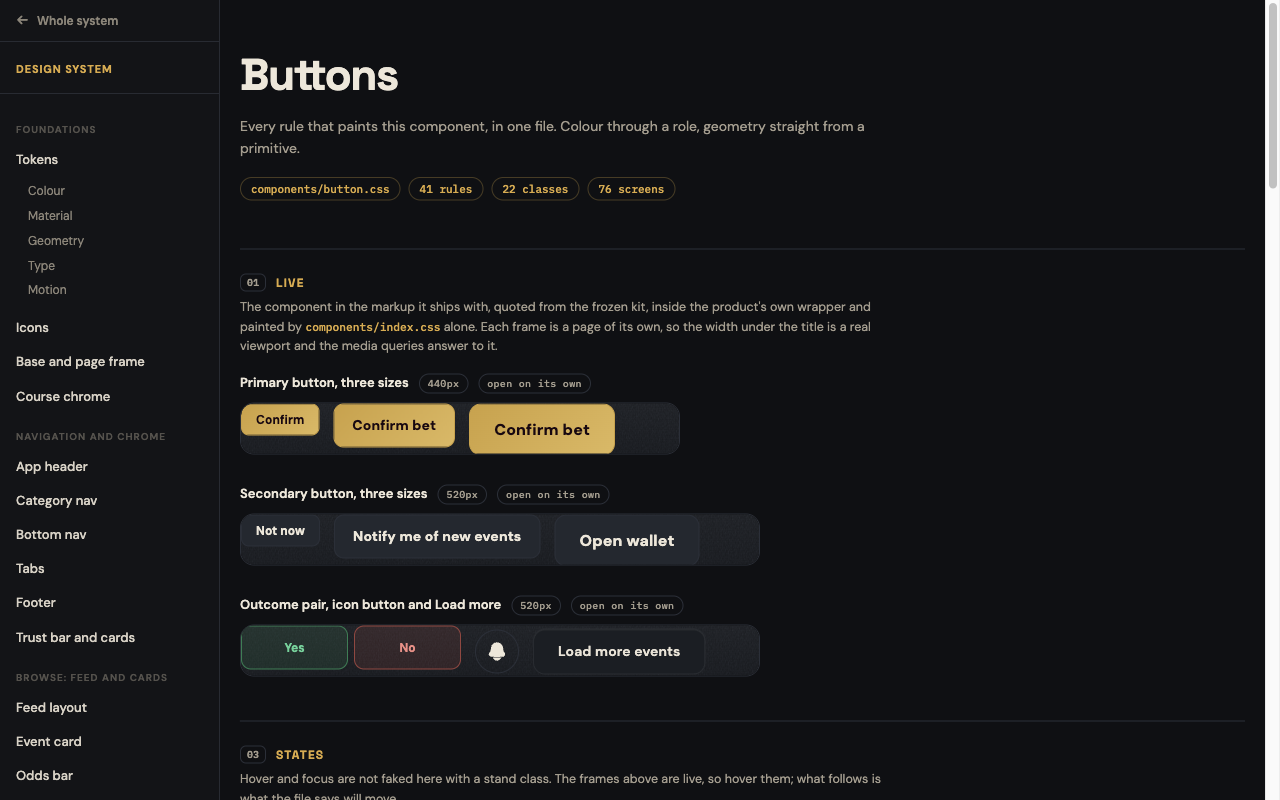
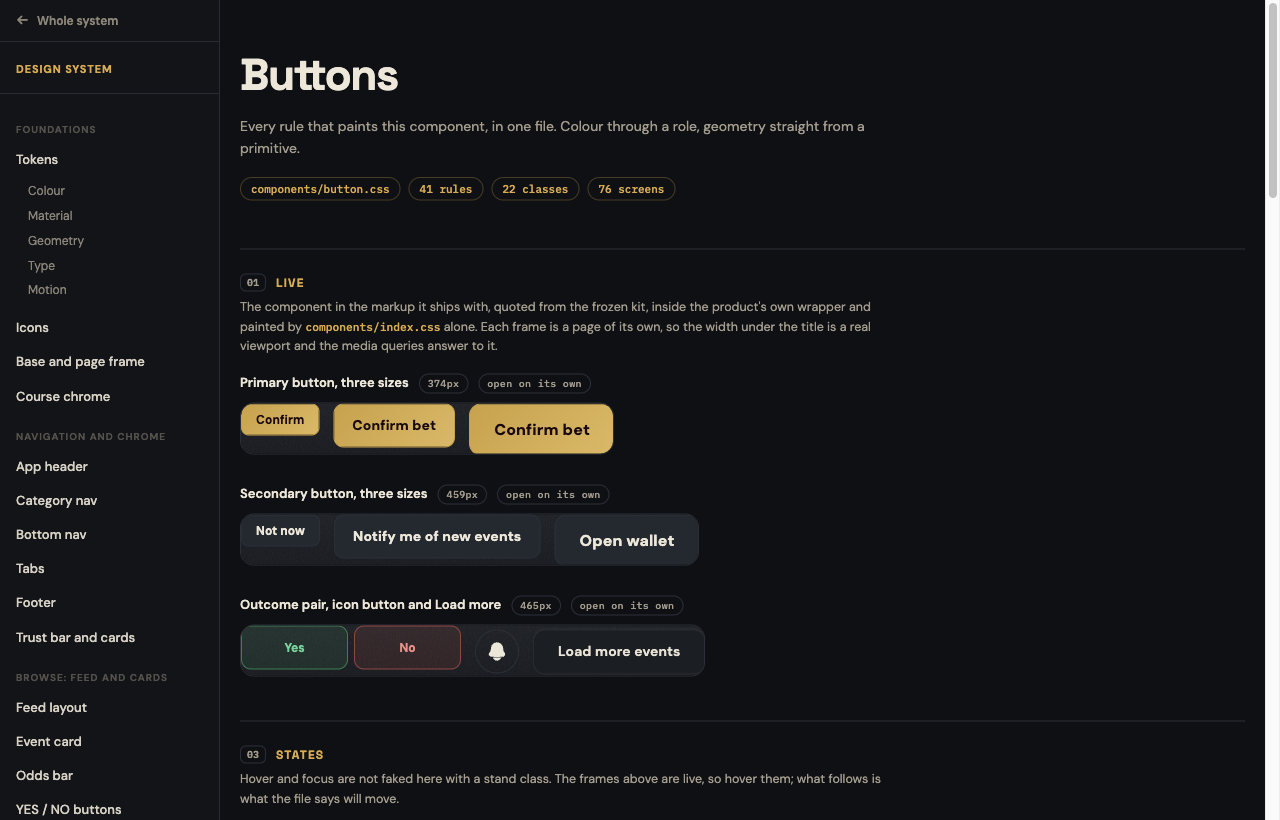
Stage 09: the specimen frame hugs the control it holds
The frame around a small component was wider than the component: a three button
row declared 720 and used 374, so the rest was bare stone inside the border and
read as a container the buttons were sitting in.

Thirteen widths are now the measured width of the thing itself: the button rows
374 / 459 / 465, Load more 173, the sort menu 196, the toggle 278, the toast 440,
the trust bar 477, the two dialog pairs 780, the how-it-works dialog 533, the
brand icon set 418, the separator demo 638.

What is NOT trimmed: everything that stands on a content plate keeps its 40px,
because that is the plate's own 20px padding on each side and it ships that way.
The rule is written into the map header so the next width is chosen the same way.

The graphite behind a button stays. It is #191b1f against the #0f1013 page, the
surface the product actually puts a button on, so removing it would make the
specimen lie about the one thing a button specimen is for.

59 of 59 specimens pass, no row wrapped (the button rows are still 52px tall),
no overflow, all 11 gates green, nothing outside ui-kit/ touched.

diff --git a/ui-kit/overview.html b/ui-kit/overview.html
@@ -45,7 +45,7 @@
   </section>
 </div>
 
-<script>window.KIT_THUMBS = {"button": {"id": "button-primary", "w": 410, "h": 243, "s": 0.5756}, "loadmore": {"id": "loadmore", "w": 220, "h": 130, "s": 1.0727}, "catnav": {"id": "catnav-chips", "w": 900, "h": 533, "s": 0.2622}, "filters": {"id": "filters-sort", "w": 250, "h": 148, "s": 0.944}, "hero": {"id": "hero-band", "w": 1120, "h": 664, "s": 0.2107}, "feed": {"id": "feed-grid", "w": 1120, "h": 664, "s": 0.2107}, "card": {"id": "card-binary", "w": 440, "h": 260, "s": 0.5364}, "oddsbar": {"id": "oddsbar", "w": 440, "h": 260, "s": 0.5364}, "yesno": {"id": "yesno", "w": 440, "h": 260, "s": 0.5364}, "options": {"id": "options-rows", "w": 440, "h": 260, "s": 0.5364}, "seo-plate": {"id": "seo-plate", "w": 1120, "h": 664, "s": 0.2107}, "state-block": {"id": "state-empty-filters", "w": 900, "h": 533, "s": 0.2622}, "skeleton": {"id": "skeleton-grid", "w": 900, "h": 533, "s": 0.2622}, "notice": {"id": "notice-push", "w": 900, "h": 533, "s": 0.2622}, "dialog": {"id": "dialog-shared", "w": 900, "h": 533, "s": 0.2622}, "signin": {"id": "signin", "w": 420, "h": 249, "s": 0.5619}, "input": {"id": "input-amount", "w": 420, "h": 249, "s": 0.5619}, "hiw-dialog": {"id": "hiw-dialog", "w": 560, "h": 332, "s": 0.4214}, "toast": {"id": "toast", "w": 560, "h": 332, "s": 0.4214}, "trustbar": {"id": "trustbar-feed", "w": 580, "h": 344, "s": 0.4069}, "outcome-dialog": {"id": "outcome-overlays", "w": 900, "h": 533, "s": 0.2622}, "event-detail": {"id": "event-detail", "w": 1120, "h": 664, "s": 0.2107}, "chart": {"id": "chart", "w": 1120, "h": 664, "s": 0.2107}, "market": {"id": "market-depth", "w": 1120, "h": 664, "s": 0.2107}, "tabs": {"id": "tabs-detail", "w": 1120, "h": 664, "s": 0.2107}, "comments": {"id": "comments-thread", "w": 900, "h": 533, "s": 0.2622}, "bets-table": {"id": "bets-biggest", "w": 900, "h": 533, "s": 0.2622}, "betpanel": {"id": "betpanel-states", "w": 1120, "h": 664, "s": 0.2107}, "related": {"id": "related", "w": 900, "h": 533, "s": 0.2622}, "profile": {"id": "profile-identity", "w": 1120, "h": 664, "s": 0.2107}, "account": {"id": "account-cta", "w": 900, "h": 533, "s": 0.2622}, "position": {"id": "position-list", "w": 1120, "h": 664, "s": 0.2107}, "header": {"id": "header-in", "w": 1120, "h": 664, "s": 0.2107}, "bottomnav": {"id": "bottomnav", "w": 360, "h": 213, "s": 0.6556}, "footer": {"id": "footer", "w": 1120, "h": 664, "s": 0.2107}, "icons": {"id": "icons-sprite", "w": 1120, "h": 664, "s": 0.2107}, "base": {"id": "base-frame", "w": 760, "h": 450, "s": 0.3105}, "course-chrome": {"id": "course-chrome", "w": 260, "h": 154, "s": 0.9077}, "cookie-consent": {"id": "cookie-consent", "w": 900, "h": 533, "s": 0.2622}};</script>
+<script>window.KIT_THUMBS = {"button": {"id": "button-primary", "w": 374, "h": 221, "s": 0.631}, "loadmore": {"id": "loadmore", "w": 173, "h": 102, "s": 1.3642}, "catnav": {"id": "catnav-chips", "w": 900, "h": 533, "s": 0.2622}, "filters": {"id": "filters-sort", "w": 196, "h": 116, "s": 1.2041}, "hero": {"id": "hero-band", "w": 1120, "h": 664, "s": 0.2107}, "feed": {"id": "feed-grid", "w": 1120, "h": 664, "s": 0.2107}, "card": {"id": "card-binary", "w": 440, "h": 260, "s": 0.5364}, "oddsbar": {"id": "oddsbar", "w": 440, "h": 260, "s": 0.5364}, "yesno": {"id": "yesno", "w": 440, "h": 260, "s": 0.5364}, "options": {"id": "options-rows", "w": 440, "h": 260, "s": 0.5364}, "seo-plate": {"id": "seo-plate", "w": 1120, "h": 664, "s": 0.2107}, "state-block": {"id": "state-empty-filters", "w": 900, "h": 533, "s": 0.2622}, "skeleton": {"id": "skeleton-grid", "w": 900, "h": 533, "s": 0.2622}, "notice": {"id": "notice-push", "w": 900, "h": 533, "s": 0.2622}, "dialog": {"id": "dialog-shared", "w": 780, "h": 462, "s": 0.3026}, "signin": {"id": "signin", "w": 420, "h": 249, "s": 0.5619}, "input": {"id": "input-amount", "w": 420, "h": 249, "s": 0.5619}, "hiw-dialog": {"id": "hiw-dialog", "w": 533, "h": 316, "s": 0.4428}, "toast": {"id": "toast", "w": 440, "h": 260, "s": 0.5364}, "trustbar": {"id": "trustbar-feed", "w": 477, "h": 282, "s": 0.4948}, "outcome-dialog": {"id": "outcome-overlays", "w": 780, "h": 462, "s": 0.3026}, "event-detail": {"id": "event-detail", "w": 1120, "h": 664, "s": 0.2107}, "chart": {"id": "chart", "w": 1120, "h": 664, "s": 0.2107}, "market": {"id": "market-depth", "w": 1120, "h": 664, "s": 0.2107}, "tabs": {"id": "tabs-detail", "w": 1120, "h": 664, "s": 0.2107}, "comments": {"id": "comments-thread", "w": 900, "h": 533, "s": 0.2622}, "bets-table": {"id": "bets-biggest", "w": 900, "h": 533, "s": 0.2622}, "betpanel": {"id": "betpanel-states", "w": 1120, "h": 664, "s": 0.2107}, "related": {"id": "related", "w": 900, "h": 533, "s": 0.2622}, "profile": {"id": "profile-identity", "w": 1120, "h": 664, "s": 0.2107}, "account": {"id": "account-cta", "w": 900, "h": 533, "s": 0.2622}, "position": {"id": "position-list", "w": 1120, "h": 664, "s": 0.2107}, "header": {"id": "header-in", "w": 1120, "h": 664, "s": 0.2107}, "bottomnav": {"id": "bottomnav", "w": 360, "h": 213, "s": 0.6556}, "footer": {"id": "footer", "w": 1120, "h": 664, "s": 0.2107}, "icons": {"id": "icons-sprite", "w": 1120, "h": 664, "s": 0.2107}, "base": {"id": "base-frame", "w": 760, "h": 450, "s": 0.3105}, "course-chrome": {"id": "course-chrome", "w": 260, "h": 154, "s": 0.9077}, "cookie-consent": {"id": "cookie-consent", "w": 900, "h": 533, "s": 0.2622}};</script>
 <script src="_nav.js"></script>
 </body>
 </html>

diff --git a/ui-kit/selftest.html b/ui-kit/selftest.html
@@ -27,7 +27,7 @@
 </div>
 <div id="stFrames" style="position:absolute;left:-99999px;top:0" aria-hidden="true"></div>
 <script>
-var SPECS = [{"id": "button-primary", "width": 410}, {"id": "button-secondary", "width": 500}, {"id": "button-outcome-row", "width": 500}, {"id": "loadmore", "width": 220}, {"id": "catnav-chips", "width": 900}, {"id": "filters-sort", "width": 250}, {"id": "filters-toggle", "width": 330}, {"id": "hero-band", "width": 1120}, {"id": "feed-grid", "width": 1120}, {"id": "card-binary", "width": 440}, {"id": "card-multi", "width": 440}, {"id": "oddsbar", "width": 440}, {"id": "yesno", "width": 440}, {"id": "options-rows", "width": 440}, {"id": "catnav-subfilter", "width": 900}, {"id": "catnav-subcat", "width": 900}, {"id": "seo-plate", "width": 1120}, {"id": "state-empty-filters", "width": 900}, {"id": "state-error", "width": 900}, {"id": "state-empty", "width": 900}, {"id": "skeleton-grid", "width": 900}, {"id": "notice-push", "width": 900}, {"id": "dialog-shared", "width": 900}, {"id": "signin", "width": 420}, {"id": "input-amount", "width": 420}, {"id": "hiw-dialog", "width": 560}, {"id": "toast", "width": 560}, {"id": "trustbar-feed", "width": 580}, {"id": "outcome-overlays", "width": 900}, {"id": "event-detail", "width": 1120}, {"id": "chart", "width": 1120}, {"id": "facts-strip", "width": 1120}, {"id": "market-depth", "width": 1120}, {"id": "tabs-detail", "width": 1120}, {"id": "comments-thread", "width": 900}, {"id": "bets-biggest", "width": 900}, {"id": "bets-table", "width": 900}, {"id": "bets-activity", "width": 900}, {"id": "betpanel-states", "width": 1120}, {"id": "betpanel-dock", "width": 360}, {"id": "betpanel-sheet", "width": 360}, {"id": "options-multi", "width": 1120}, {"id": "related", "width": 900}, {"id": "profile-identity", "width": 1120}, {"id": "account-cta", "width": 900}, {"id": "position-list", "width": 1120}, {"id": "header-in", "width": 1120}, {"id": "header-out", "width": 1120}, {"id": "tabs-mybets", "width": 900}, {"id": "bottomnav", "width": 360}, {"id": "footer", "width": 1120}, {"id": "trustbar-footer", "width": 1120}, {"id": "icons-sprite", "width": 1120}, {"id": "icons-interface", "width": 1120}, {"id": "icons-brand", "width": 560}, {"id": "base-frame", "width": 760}, {"id": "base-groove", "width": 760}, {"id": "course-chrome", "width": 260}, {"id": "cookie-consent", "width": 900}];
+var SPECS = [{"id": "button-primary", "width": 374}, {"id": "button-secondary", "width": 459}, {"id": "button-outcome-row", "width": 465}, {"id": "loadmore", "width": 173}, {"id": "catnav-chips", "width": 900}, {"id": "filters-sort", "width": 196}, {"id": "filters-toggle", "width": 278}, {"id": "hero-band", "width": 1120}, {"id": "feed-grid", "width": 1120}, {"id": "card-binary", "width": 440}, {"id": "card-multi", "width": 440}, {"id": "oddsbar", "width": 440}, {"id": "yesno", "width": 440}, {"id": "options-rows", "width": 440}, {"id": "catnav-subfilter", "width": 900}, {"id": "catnav-subcat", "width": 900}, {"id": "seo-plate", "width": 1120}, {"id": "state-empty-filters", "width": 900}, {"id": "state-error", "width": 900}, {"id": "state-empty", "width": 900}, {"id": "skeleton-grid", "width": 900}, {"id": "notice-push", "width": 900}, {"id": "dialog-shared", "width": 780}, {"id": "signin", "width": 420}, {"id": "input-amount", "width": 420}, {"id": "hiw-dialog", "width": 533}, {"id": "toast", "width": 440}, {"id": "trustbar-feed", "width": 477}, {"id": "outcome-overlays", "width": 780}, {"id": "event-detail", "width": 1120}, {"id": "chart", "width": 1120}, {"id": "facts-strip", "width": 1120}, {"id": "market-depth", "width": 1120}, {"id": "tabs-detail", "width": 1120}, {"id": "comments-thread", "width": 900}, {"id": "bets-biggest", "width": 900}, {"id": "bets-table", "width": 900}, {"id": "bets-activity", "width": 900}, {"id": "betpanel-states", "width": 1120}, {"id": "betpanel-dock", "width": 360}, {"id": "betpanel-sheet", "width": 360}, {"id": "options-multi", "width": 1120}, {"id": "related", "width": 900}, {"id": "profile-identity", "width": 1120}, {"id": "account-cta", "width": 900}, {"id": "position-list", "width": 1120}, {"id": "header-in", "width": 1120}, {"id": "header-out", "width": 1120}, {"id": "tabs-mybets", "width": 900}, {"id": "bottomnav", "width": 360}, {"id": "footer", "width": 1120}, {"id": "trustbar-footer", "width": 1120}, {"id": "icons-sprite", "width": 1120}, {"id": "icons-interface", "width": 1120}, {"id": "icons-brand", "width": 418}, {"id": "base-frame", "width": 760}, {"id": "base-groove", "width": 638}, {"id": "course-chrome", "width": 260}, {"id": "cookie-consent", "width": 900}];
 var seen = {};
 var host = document.getElementById("stFrames");
 SPECS.forEach(function (s) {

diff --git a/ui-kit/button.html b/ui-kit/button.html
@@ -30,9 +30,9 @@
     the product's own wrapper and painted by <code>components/index.css</code> alone. Each frame is a
     page of its own, so the width under the title is a real viewport and the media queries answer to
     it.</p>
-    <figure class="ck-scene" id="sp-button-primary"><figcaption class="ck-scene-lbl"><b>Primary button, three sizes</b><span class="ck-w">410px</span><span class="ck-zoom" hidden></span><a href="specimens/button-primary.html" target="_blank" rel="noopener">open on its own</a></figcaption><div class="ck-frame" style="width:410px"><iframe data-specimen="button-primary" src="specimens/button-primary.html" width="410" height="320" loading="lazy" title="Primary button, three sizes"></iframe></div></figure>
-<figure class="ck-scene" id="sp-button-secondary"><figcaption class="ck-scene-lbl"><b>Secondary button, three sizes</b><span class="ck-w">500px</span><span class="ck-zoom" hidden></span><a href="specimens/button-secondary.html" target="_blank" rel="noopener">open on its own</a></figcaption><div class="ck-frame" style="width:500px"><iframe data-specimen="button-secondary" src="specimens/button-secondary.html" width="500" height="320" loading="lazy" title="Secondary button, three sizes"></iframe></div></figure>
-<figure class="ck-scene" id="sp-button-outcome-row"><figcaption class="ck-scene-lbl"><b>Outcome pair, icon button and Load more</b><span class="ck-w">500px</span><span class="ck-zoom" hidden></span><a href="specimens/button-outcome-row.html" target="_blank" rel="noopener">open on its own</a></figcaption><div class="ck-frame" style="width:500px"><iframe data-specimen="button-outcome-row" src="specimens/button-outcome-row.html" width="500" height="320" loading="lazy" title="Outcome pair, icon button and Load more"></iframe></div></figure>
+    <figure class="ck-scene" id="sp-button-primary"><figcaption class="ck-scene-lbl"><b>Primary button, three sizes</b><span class="ck-w">374px</span><span class="ck-zoom" hidden></span><a href="specimens/button-primary.html" target="_blank" rel="noopener">open on its own</a></figcaption><div class="ck-frame" style="width:374px"><iframe data-specimen="button-primary" src="specimens/button-primary.html" width="374" height="320" loading="lazy" title="Primary button, three sizes"></iframe></div></figure>
+<figure class="ck-scene" id="sp-button-secondary"><figcaption class="ck-scene-lbl"><b>Secondary button, three sizes</b><span class="ck-w">459px</span><span class="ck-zoom" hidden></span><a href="specimens/button-secondary.html" target="_blank" rel="noopener">open on its own</a></figcaption><div class="ck-frame" style="width:459px"><iframe data-specimen="button-secondary" src="specimens/button-secondary.html" width="459" height="320" loading="lazy" title="Secondary button, three sizes"></iframe></div></figure>
+<figure class="ck-scene" id="sp-button-outcome-row"><figcaption class="ck-scene-lbl"><b>Outcome pair, icon button and Load more</b><span class="ck-w">465px</span><span class="ck-zoom" hidden></span><a href="specimens/button-outcome-row.html" target="_blank" rel="noopener">open on its own</a></figcaption><div class="ck-frame" style="width:465px"><iframe data-specimen="button-outcome-row" src="specimens/button-outcome-row.html" width="465" height="320" loading="lazy" title="Outcome pair, icon button and Load more"></iframe></div></figure>
   </section>
 
   <section class="tk-sec" id="states">

diff --git a/ui-kit/icons.html b/ui-kit/icons.html
@@ -57,7 +57,7 @@
   <section class="tk-sec" id="sets">
     <h2 data-n="04">The sets, live</h2>
     <p class="tk-note">The three icon blocks of the frozen kit, each in a frame of its own.</p>
-    <figure class="ck-scene" id="sp-icons-sprite"><figcaption class="ck-scene-lbl"><b>Named icons (sprite)</b><span class="ck-w">1120px</span><span class="ck-zoom" hidden></span><a href="specimens/icons-sprite.html" target="_blank" rel="noopener">open on its own</a></figcaption><div class="ck-frame"><iframe data-specimen="icons-sprite" src="specimens/icons-sprite.html" width="1120" height="320" loading="lazy" title="Named icons (sprite)"></iframe></div></figure><figure class="ck-scene" id="sp-icons-interface"><figcaption class="ck-scene-lbl"><b>Interface icons</b><span class="ck-w">1120px</span><span class="ck-zoom" hidden></span><a href="specimens/icons-interface.html" target="_blank" rel="noopener">open on its own</a></figcaption><div class="ck-frame"><iframe data-specimen="icons-interface" src="specimens/icons-interface.html" width="1120" height="320" loading="lazy" title="Interface icons"></iframe></div></figure><figure class="ck-scene" id="sp-icons-brand"><figcaption class="ck-scene-lbl"><b>Brand and auth</b><span class="ck-w">560px</span><span class="ck-zoom" hidden></span><a href="specimens/icons-brand.html" target="_blank" rel="noopener">open on its own</a></figcaption><div class="ck-frame"><iframe data-specimen="icons-brand" src="specimens/icons-brand.html" width="560" height="320" loading="lazy" title="Brand and auth"></iframe></div></figure>
+    <figure class="ck-scene" id="sp-icons-sprite"><figcaption class="ck-scene-lbl"><b>Named icons (sprite)</b><span class="ck-w">1120px</span><span class="ck-zoom" hidden></span><a href="specimens/icons-sprite.html" target="_blank" rel="noopener">open on its own</a></figcaption><div class="ck-frame"><iframe data-specimen="icons-sprite" src="specimens/icons-sprite.html" width="1120" height="320" loading="lazy" title="Named icons (sprite)"></iframe></div></figure><figure class="ck-scene" id="sp-icons-interface"><figcaption class="ck-scene-lbl"><b>Interface icons</b><span class="ck-w">1120px</span><span class="ck-zoom" hidden></span><a href="specimens/icons-interface.html" target="_blank" rel="noopener">open on its own</a></figcaption><div class="ck-frame"><iframe data-specimen="icons-interface" src="specimens/icons-interface.html" width="1120" height="320" loading="lazy" title="Interface icons"></iframe></div></figure><figure class="ck-scene" id="sp-icons-brand"><figcaption class="ck-scene-lbl"><b>Brand and auth</b><span class="ck-w">418px</span><span class="ck-zoom" hidden></span><a href="specimens/icons-brand.html" target="_blank" rel="noopener">open on its own</a></figcaption><div class="ck-frame"><iframe data-specimen="icons-brand" src="specimens/icons-brand.html" width="418" height="320" loading="lazy" title="Brand and auth"></iframe></div></figure>
   </section>
 </div>
 

diff --git a/ui-kit/filters.html b/ui-kit/filters.html
@@ -30,8 +30,8 @@
     the product's own wrapper and painted by <code>components/index.css</code> alone. Each frame is a
     page of its own, so the width under the title is a real viewport and the media queries answer to
     it.</p>
-    <figure class="ck-scene" id="sp-filters-sort"><figcaption class="ck-scene-lbl"><b>Sort menu</b><span class="ck-w">250px</span><span class="ck-zoom" hidden></span><a href="specimens/filters-sort.html" target="_blank" rel="noopener">open on its own</a></figcaption><div class="ck-frame" style="width:250px"><iframe data-specimen="filters-sort" src="specimens/filters-sort.html" width="250" height="320" loading="lazy" title="Sort menu"></iframe></div><p class="ck-cap"><span class="ck-cap-k">state</span> Shown closed, the way it ships. It opens on click, no script involved.</p></figure>
-<figure class="ck-scene" id="sp-filters-toggle"><figcaption class="ck-scene-lbl"><b>Toggle: on, off, disabled</b><span class="ck-w">330px</span><span class="ck-zoom" hidden></span><a href="specimens/filters-toggle.html" target="_blank" rel="noopener">open on its own</a></figcaption><div class="ck-frame" style="width:330px"><iframe data-specimen="filters-toggle" src="specimens/filters-toggle.html" width="330" height="320" loading="lazy" title="Toggle: on, off, disabled"></iframe></div></figure>
+    <figure class="ck-scene" id="sp-filters-sort"><figcaption class="ck-scene-lbl"><b>Sort menu</b><span class="ck-w">196px</span><span class="ck-zoom" hidden></span><a href="specimens/filters-sort.html" target="_blank" rel="noopener">open on its own</a></figcaption><div class="ck-frame" style="width:196px"><iframe data-specimen="filters-sort" src="specimens/filters-sort.html" width="196" height="320" loading="lazy" title="Sort menu"></iframe></div><p class="ck-cap"><span class="ck-cap-k">state</span> Shown closed, the way it ships. It opens on click, no script involved.</p></figure>
+<figure class="ck-scene" id="sp-filters-toggle"><figcaption class="ck-scene-lbl"><b>Toggle: on, off, disabled</b><span class="ck-w">278px</span><span class="ck-zoom" hidden></span><a href="specimens/filters-toggle.html" target="_blank" rel="noopener">open on its own</a></figcaption><div class="ck-frame" style="width:278px"><iframe data-specimen="filters-toggle" src="specimens/filters-toggle.html" width="278" height="320" loading="lazy" title="Toggle: on, off, disabled"></iframe></div></figure>
   </section>
 <section class="tk-sec" id="inside"><h2 data-n="02">Also rendered inside</h2><p class="tk-note">The same markup, shown once on the page of the component that owns it. Nothing here is a second copy.</p><div class="ck-screens"><a href="catnav.html#sp-catnav-chips">Category chips and the sort menu</a><a href="footer.html#sp-footer">Footer</a></div></section>
   <section class="tk-sec" id="states">

diff --git a/ui-kit/base.html b/ui-kit/base.html
@@ -31,7 +31,7 @@
     page of its own, so the width under the title is a real viewport and the media queries answer to
     it.</p>
     <figure class="ck-scene" id="sp-base-frame"><figcaption class="ck-scene-lbl"><b>The page frame and the text reset</b><span class="ck-w">760px</span><span class="ck-zoom" hidden></span><a href="specimens/base-frame.html" target="_blank" rel="noopener">open on its own</a></figcaption><div class="ck-frame" style="width:760px"><iframe data-specimen="base-frame" src="specimens/base-frame.html" width="760" height="320" loading="lazy" title="The page frame and the text reset"></iframe></div></figure>
-<figure class="ck-scene" id="sp-base-groove"><figcaption class="ck-scene-lbl"><b>The engraved separator</b><span class="ck-w">760px</span><span class="ck-zoom" hidden></span><a href="specimens/base-groove.html" target="_blank" rel="noopener">open on its own</a></figcaption><div class="ck-frame" style="width:760px"><iframe data-specimen="base-groove" src="specimens/base-groove.html" width="760" height="320" loading="lazy" title="The engraved separator"></iframe></div><p class="ck-cap">The .groove-sep utility next to the flat line it replaces. It is used on three elements in the frozen kit and on no painted screen, while its two declarations are hand-inlined in thirteen other component files. That is a finding, not dead weight.</p></figure>
+<figure class="ck-scene" id="sp-base-groove"><figcaption class="ck-scene-lbl"><b>The engraved separator</b><span class="ck-w">638px</span><span class="ck-zoom" hidden></span><a href="specimens/base-groove.html" target="_blank" rel="noopener">open on its own</a></figcaption><div class="ck-frame" style="width:638px"><iframe data-specimen="base-groove" src="specimens/base-groove.html" width="638" height="320" loading="lazy" title="The engraved separator"></iframe></div><p class="ck-cap">The .groove-sep utility next to the flat line it replaces. It is used on three elements in the frozen kit and on no painted screen, while its two declarations are hand-inlined in thirteen other component files. That is a finding, not dead weight.</p></figure>
   </section>
 
   <section class="tk-sec" id="states">

diff --git a/ui-kit/trustbar.html b/ui-kit/trustbar.html
@@ -30,7 +30,7 @@
     the product's own wrapper and painted by <code>components/index.css</code> alone. Each frame is a
     page of its own, so the width under the title is a real viewport and the media queries answer to
     it.</p>
-    <figure class="ck-scene" id="sp-trustbar-feed"><figcaption class="ck-scene-lbl"><b>Trust bar, near the action</b><span class="ck-w">580px</span><span class="ck-zoom" hidden></span><a href="specimens/trustbar-feed.html" target="_blank" rel="noopener">open on its own</a></figcaption><div class="ck-frame" style="width:580px"><iframe data-specimen="trustbar-feed" src="specimens/trustbar-feed.html" width="580" height="320" loading="lazy" title="Trust bar, near the action"></iframe></div></figure>
+    <figure class="ck-scene" id="sp-trustbar-feed"><figcaption class="ck-scene-lbl"><b>Trust bar, near the action</b><span class="ck-w">477px</span><span class="ck-zoom" hidden></span><a href="specimens/trustbar-feed.html" target="_blank" rel="noopener">open on its own</a></figcaption><div class="ck-frame" style="width:477px"><iframe data-specimen="trustbar-feed" src="specimens/trustbar-feed.html" width="477" height="320" loading="lazy" title="Trust bar, near the action"></iframe></div></figure>
 <figure class="ck-scene" id="sp-trustbar-footer"><figcaption class="ck-scene-lbl"><b>Footer trust strip</b><span class="ck-w">1120px</span><span class="ck-zoom" hidden></span><a href="specimens/trustbar-footer.html" target="_blank" rel="noopener">open on its own</a></figcaption><div class="ck-frame" style="width:1120px"><iframe data-specimen="trustbar-footer" src="specimens/trustbar-footer.html" width="1120" height="320" loading="lazy" title="Footer trust strip"></iframe></div></figure>
   </section>
 <section class="tk-sec" id="inside"><h2 data-n="02">Also rendered inside</h2><p class="tk-note">The same markup, shown once on the page of the component that owns it. Nothing here is a second copy.</p><div class="ck-screens"><a href="footer.html#sp-footer">Footer</a></div></section>

diff --git a/ui-kit/dialog.html b/ui-kit/dialog.html
@@ -30,7 +30,7 @@
     the product's own wrapper and painted by <code>components/index.css</code> alone. Each frame is a
     page of its own, so the width under the title is a real viewport and the media queries answer to
     it.</p>
-    <figure class="ck-scene" id="sp-dialog-shared"><figcaption class="ck-scene-lbl"><b>Sign in and Add funds</b><span class="ck-w">900px</span><span class="ck-zoom" hidden></span><a href="specimens/dialog-shared.html" target="_blank" rel="noopener">open on its own</a></figcaption><div class="ck-frame" style="width:900px"><iframe data-specimen="dialog-shared" src="specimens/dialog-shared.html" width="900" height="320" loading="lazy" title="Sign in and Add funds"></iframe></div><p class="ck-cap"><span class="ck-cap-k">state</span> Both carry the open attribute. In the product they are opened with showModal(), which is why the staging sheet puts them back in the flow.</p></figure>
+    <figure class="ck-scene" id="sp-dialog-shared"><figcaption class="ck-scene-lbl"><b>Sign in and Add funds</b><span class="ck-w">780px</span><span class="ck-zoom" hidden></span><a href="specimens/dialog-shared.html" target="_blank" rel="noopener">open on its own</a></figcaption><div class="ck-frame" style="width:780px"><iframe data-specimen="dialog-shared" src="specimens/dialog-shared.html" width="780" height="320" loading="lazy" title="Sign in and Add funds"></iframe></div><p class="ck-cap"><span class="ck-cap-k">state</span> Both carry the open attribute. In the product they are opened with showModal(), which is why the staging sheet puts them back in the flow.</p></figure>
   </section>
 
   <section class="tk-sec" id="states">

diff --git a/ui-kit/loadmore.html b/ui-kit/loadmore.html
@@ -30,7 +30,7 @@
     the product's own wrapper and painted by <code>components/index.css</code> alone. Each frame is a
     page of its own, so the width under the title is a real viewport and the media queries answer to
     it.</p>
-    <figure class="ck-scene" id="sp-loadmore"><figcaption class="ck-scene-lbl"><b>Load more</b><span class="ck-w">220px</span><span class="ck-zoom" hidden></span><a href="specimens/loadmore.html" target="_blank" rel="noopener">open on its own</a></figcaption><div class="ck-frame" style="width:220px"><iframe data-specimen="loadmore" src="specimens/loadmore.html" width="220" height="320" loading="lazy" title="Load more"></iframe></div></figure>
+    <figure class="ck-scene" id="sp-loadmore"><figcaption class="ck-scene-lbl"><b>Load more</b><span class="ck-w">173px</span><span class="ck-zoom" hidden></span><a href="specimens/loadmore.html" target="_blank" rel="noopener">open on its own</a></figcaption><div class="ck-frame" style="width:173px"><iframe data-specimen="loadmore" src="specimens/loadmore.html" width="173" height="320" loading="lazy" title="Load more"></iframe></div></figure>
   </section>
 <section class="tk-sec" id="inside"><h2 data-n="02">Also rendered inside</h2><p class="tk-note">The same markup, shown once on the page of the component that owns it. Nothing here is a second copy.</p><div class="ck-screens"><a href="button.html#sp-button-outcome-row">Outcome pair, icon button and Load more</a></div></section>
   <section class="tk-sec" id="states">

diff --git a/ui-kit/outcome-dialog.html b/ui-kit/outcome-dialog.html
@@ -30,7 +30,7 @@
     the product's own wrapper and painted by <code>components/index.css</code> alone. Each frame is a
     page of its own, so the width under the title is a real viewport and the media queries answer to
     it.</p>
-    <figure class="ck-scene" id="sp-outcome-overlays"><figcaption class="ck-scene-lbl"><b>Win and loss overlays</b><span class="ck-w">900px</span><span class="ck-zoom" hidden></span><a href="specimens/outcome-overlays.html" target="_blank" rel="noopener">open on its own</a></figcaption><div class="ck-frame" style="width:900px"><iframe data-specimen="outcome-overlays" src="specimens/outcome-overlays.html" width="900" height="320" loading="lazy" title="Win and loss overlays"></iframe></div></figure>
+    <figure class="ck-scene" id="sp-outcome-overlays"><figcaption class="ck-scene-lbl"><b>Win and loss overlays</b><span class="ck-w">780px</span><span class="ck-zoom" hidden></span><a href="specimens/outcome-overlays.html" target="_blank" rel="noopener">open on its own</a></figcaption><div class="ck-frame" style="width:780px"><iframe data-specimen="outcome-overlays" src="specimens/outcome-overlays.html" width="780" height="320" loading="lazy" title="Win and loss overlays"></iframe></div></figure>
   </section>
 
   <section class="tk-sec" id="states">

diff --git a/ui-kit/hiw-dialog.html b/ui-kit/hiw-dialog.html
@@ -30,7 +30,7 @@
     the product's own wrapper and painted by <code>components/index.css</code> alone. Each frame is a
     page of its own, so the width under the title is a real viewport and the media queries answer to
     it.</p>
-    <figure class="ck-scene" id="sp-hiw-dialog"><figcaption class="ck-scene-lbl"><b>How-it-works dialog</b><span class="ck-w">560px</span><span class="ck-zoom" hidden></span><a href="specimens/hiw-dialog.html" target="_blank" rel="noopener">open on its own</a></figcaption><div class="ck-frame" style="width:560px"><iframe data-specimen="hiw-dialog" src="specimens/hiw-dialog.html" width="560" height="320" loading="lazy" title="How-it-works dialog"></iframe></div></figure>
+    <figure class="ck-scene" id="sp-hiw-dialog"><figcaption class="ck-scene-lbl"><b>How-it-works dialog</b><span class="ck-w">533px</span><span class="ck-zoom" hidden></span><a href="specimens/hiw-dialog.html" target="_blank" rel="noopener">open on its own</a></figcaption><div class="ck-frame" style="width:533px"><iframe data-specimen="hiw-dialog" src="specimens/hiw-dialog.html" width="533" height="320" loading="lazy" title="How-it-works dialog"></iframe></div></figure>
   </section>
 
   <section class="tk-sec" id="states">

diff --git a/ui-kit/toast.html b/ui-kit/toast.html
@@ -30,7 +30,7 @@
     the product's own wrapper and painted by <code>components/index.css</code> alone. Each frame is a
     page of its own, so the width under the title is a real viewport and the media queries answer to
     it.</p>
-    <figure class="ck-scene" id="sp-toast"><figcaption class="ck-scene-lbl"><b>Toasts</b><span class="ck-w">560px</span><span class="ck-zoom" hidden></span><a href="specimens/toast.html" target="_blank" rel="noopener">open on its own</a></figcaption><div class="ck-frame" style="width:560px"><iframe data-specimen="toast" src="specimens/toast.html" width="560" height="320" loading="lazy" title="Toasts"></iframe></div></figure>
+    <figure class="ck-scene" id="sp-toast"><figcaption class="ck-scene-lbl"><b>Toasts</b><span class="ck-w">440px</span><span class="ck-zoom" hidden></span><a href="specimens/toast.html" target="_blank" rel="noopener">open on its own</a></figcaption><div class="ck-frame" style="width:440px"><iframe data-specimen="toast" src="specimens/toast.html" width="440" height="320" loading="lazy" title="Toasts"></iframe></div></figure>
   </section>
 
   <section class="tk-sec" id="states">
